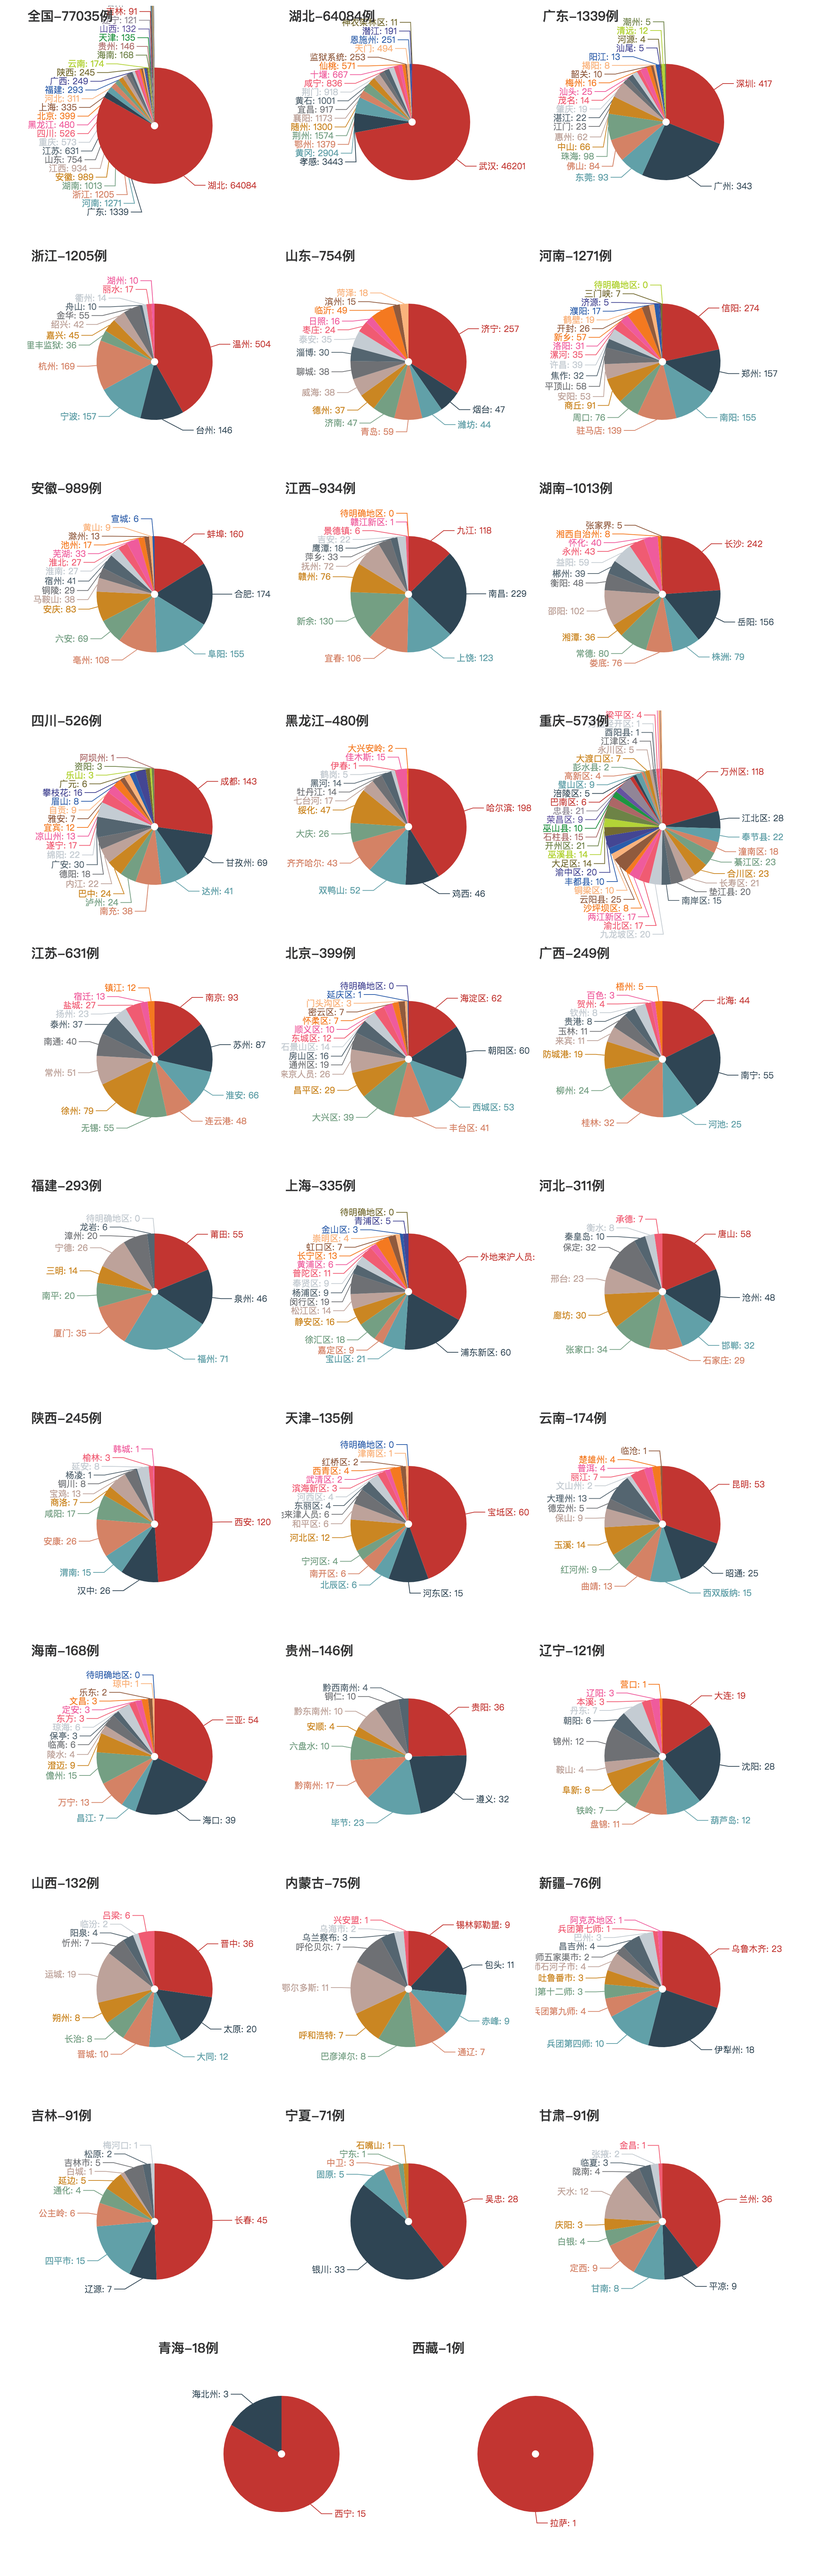
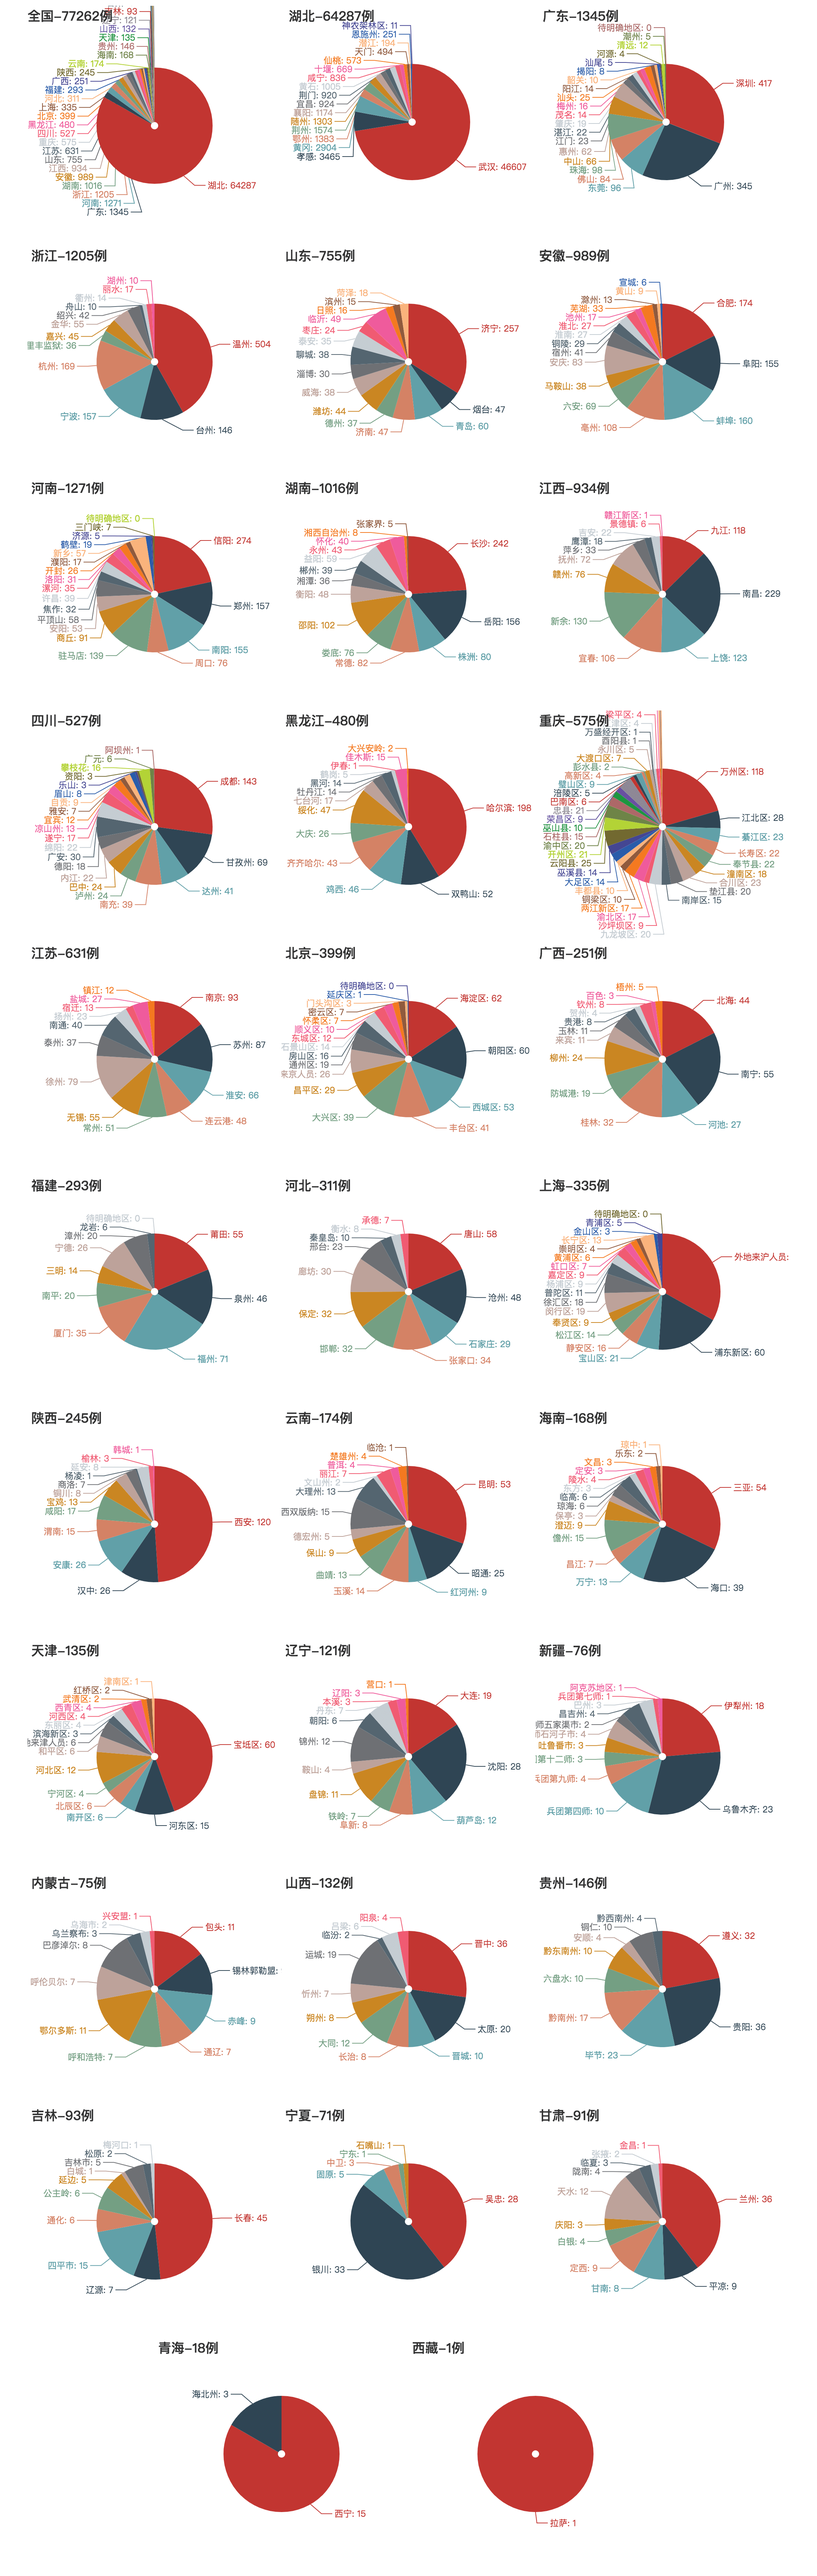
update result

diff --git a/main.py b/main.py
@@ -97,9 +97,9 @@ def draw_tendency(month, day):
     dates = ['1-%d' % i for i in range(22, 31 + 1)]
     dates.extend(['2-%02d' % i for i in range(1, day)])
     v0 = [131, 259, 444, 688, 769, 1771, 1459, 1737, 1982, 2102, 2590, 2829, 3235, 3887, 3143, 3399, 2656, 3062, 2478,
-          2015, 15152, 5090, 2641, 2009, 2051, 1886, 1749, 385, 397, 643]
+          2015, 15152, 5090, 2641, 2009, 2051, 1886, 1749, 385, 397, 643, 416]
     v1 = [69, 105, 180, 323, 371, 1291, 840, 1032, 1220, 1347, 1921, 2103, 2345, 3156, 2447, 2841, 2147, 2618, 2097,
-          1638, 14840, 4823, 2420, 1843, 1933, 1807, 1693, 349, 366, 630]
+          1638, 14840, 4823, 2420, 1843, 1933, 1807, 1693, 349, 366, 630, 398]
     v2 = [v0[i] - v1[i] for i in range(len(v0))]
     print(v2)
     c = (
@@ -261,7 +261,7 @@ def draw_multiple_pie(month, day):
 
 
 if __name__ == '__main__':
-    m, d = 2, 22
+    m, d = 2, 23
     get_html(m, d)
     draw_tendency(m, d)
     draw_multiple_pie(m, d)

diff --git a/README.md b/README.md
@@ -26,6 +26,7 @@
 - 更新：2020.2.20 08:45
 - 更新：2020.2.22 10:51
 - 更新：2020.2.23 08:51
+- 更新：2020.2.24 11:57 最近数据上报都变慢了，改成每天中午更新好了
 
 # 全国/各省份疫情地图
 ![image](https://github.com/shadow12138/WuHanGanBaDei/blob/master/result/r1.png)
